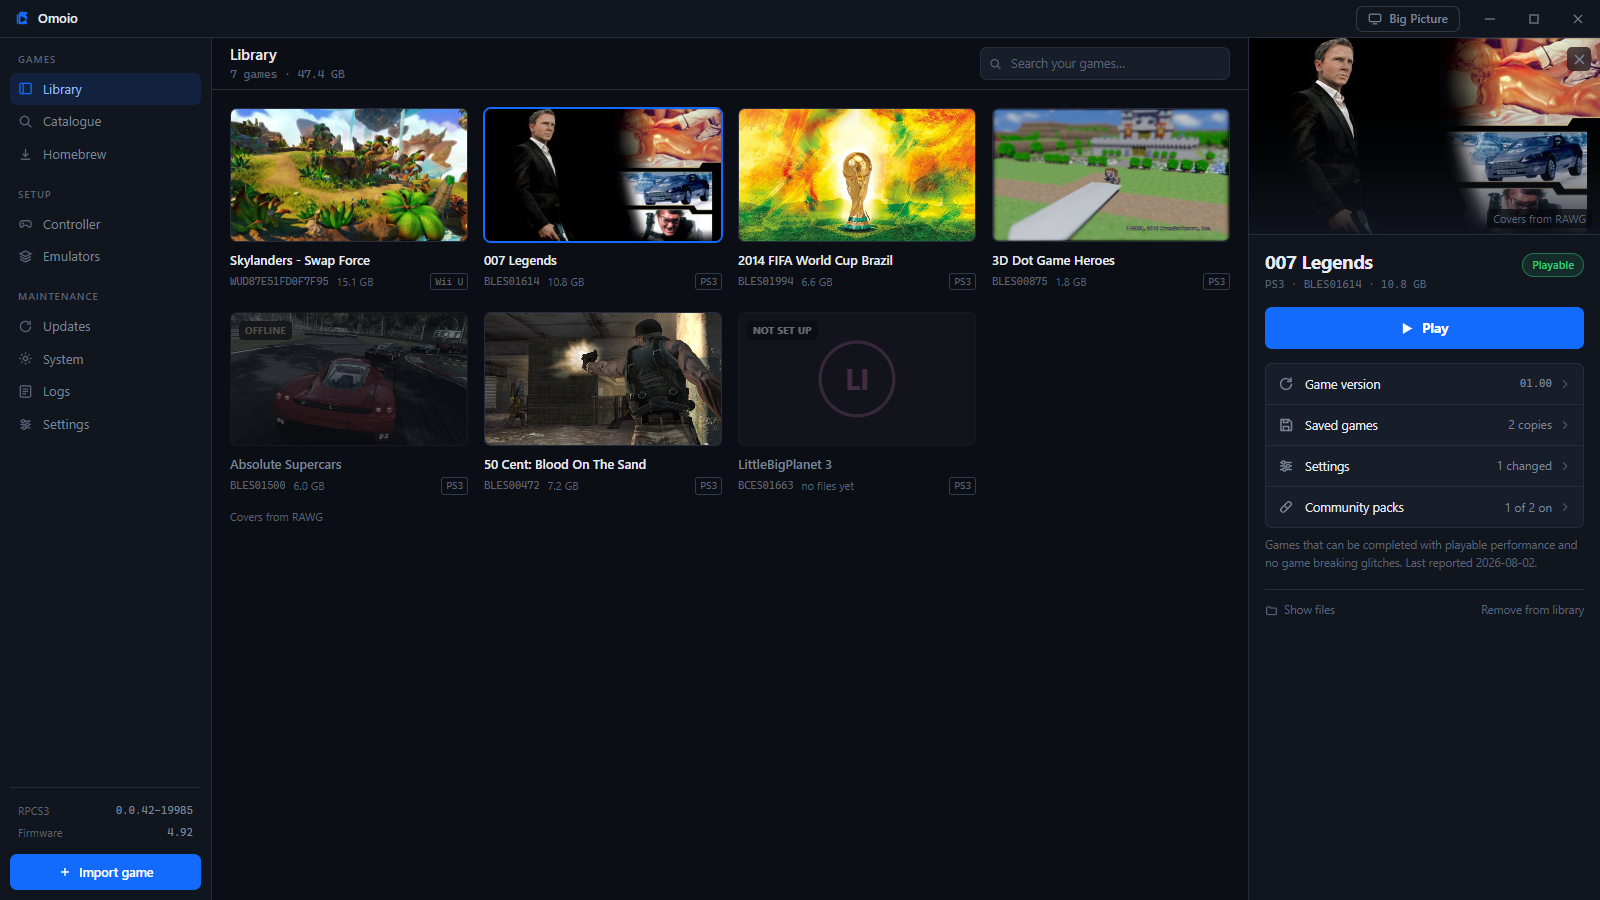
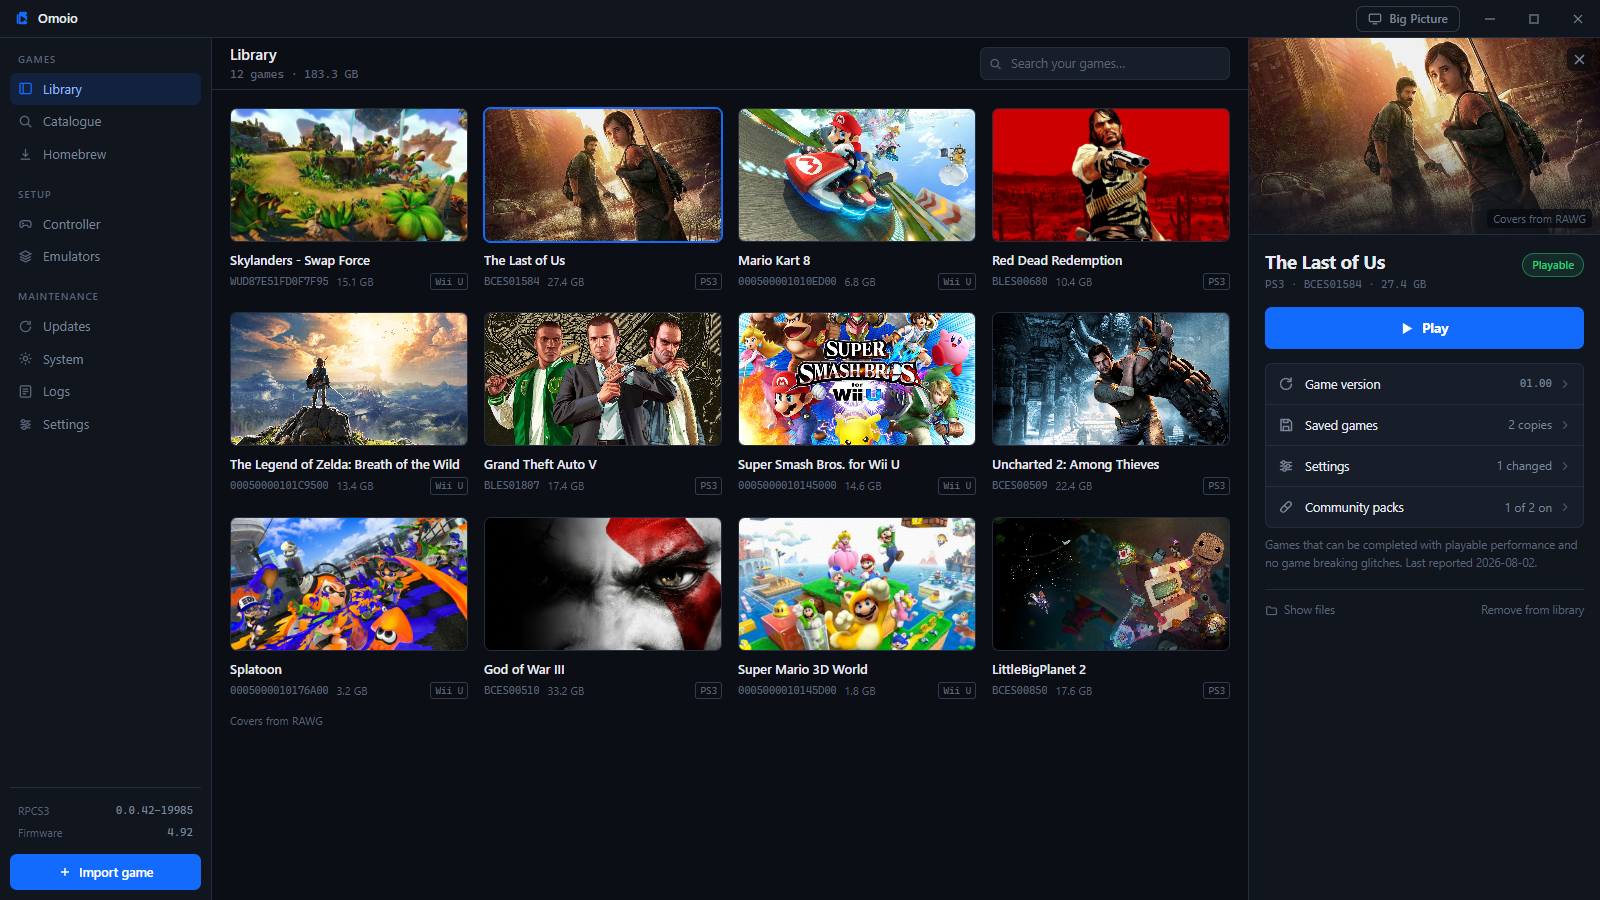
Show the most played PS3 and Wii U games in the README pictures

diff --git a/README.md b/README.md
@@ -4,7 +4,7 @@
 <h1 align="center">Omoio</h1>
 <p align="center">Your PS3 and Wii U games in one library. Press Play and Omoio sets up the emulator for you.</p>
 
-![The library, with the panel for 007 Legends open](design/screenshots/library.png)
+![The library, with the panel for The Last of Us open](design/screenshots/library.png)
 <sub>Covers in these pictures come from [RAWG](https://rawg.io).</sub>
 
 Omoio is a game library for Windows. You import the dumps of games you own
@@ -38,7 +38,7 @@ really appreciated, so open an issue.
 
 ## Big Picture
 
-![Big Picture with Skylanders SWAP Force picked](design/screenshots/big-picture.jpg)
+![Big Picture with Skylanders SWAP Force picked](design/screenshots/big-picture.png)
 
 Big Picture fills the screen and is made for a TV and a controller, with each
 game's settings, community packs and saves inside it. Press View and Menu together
